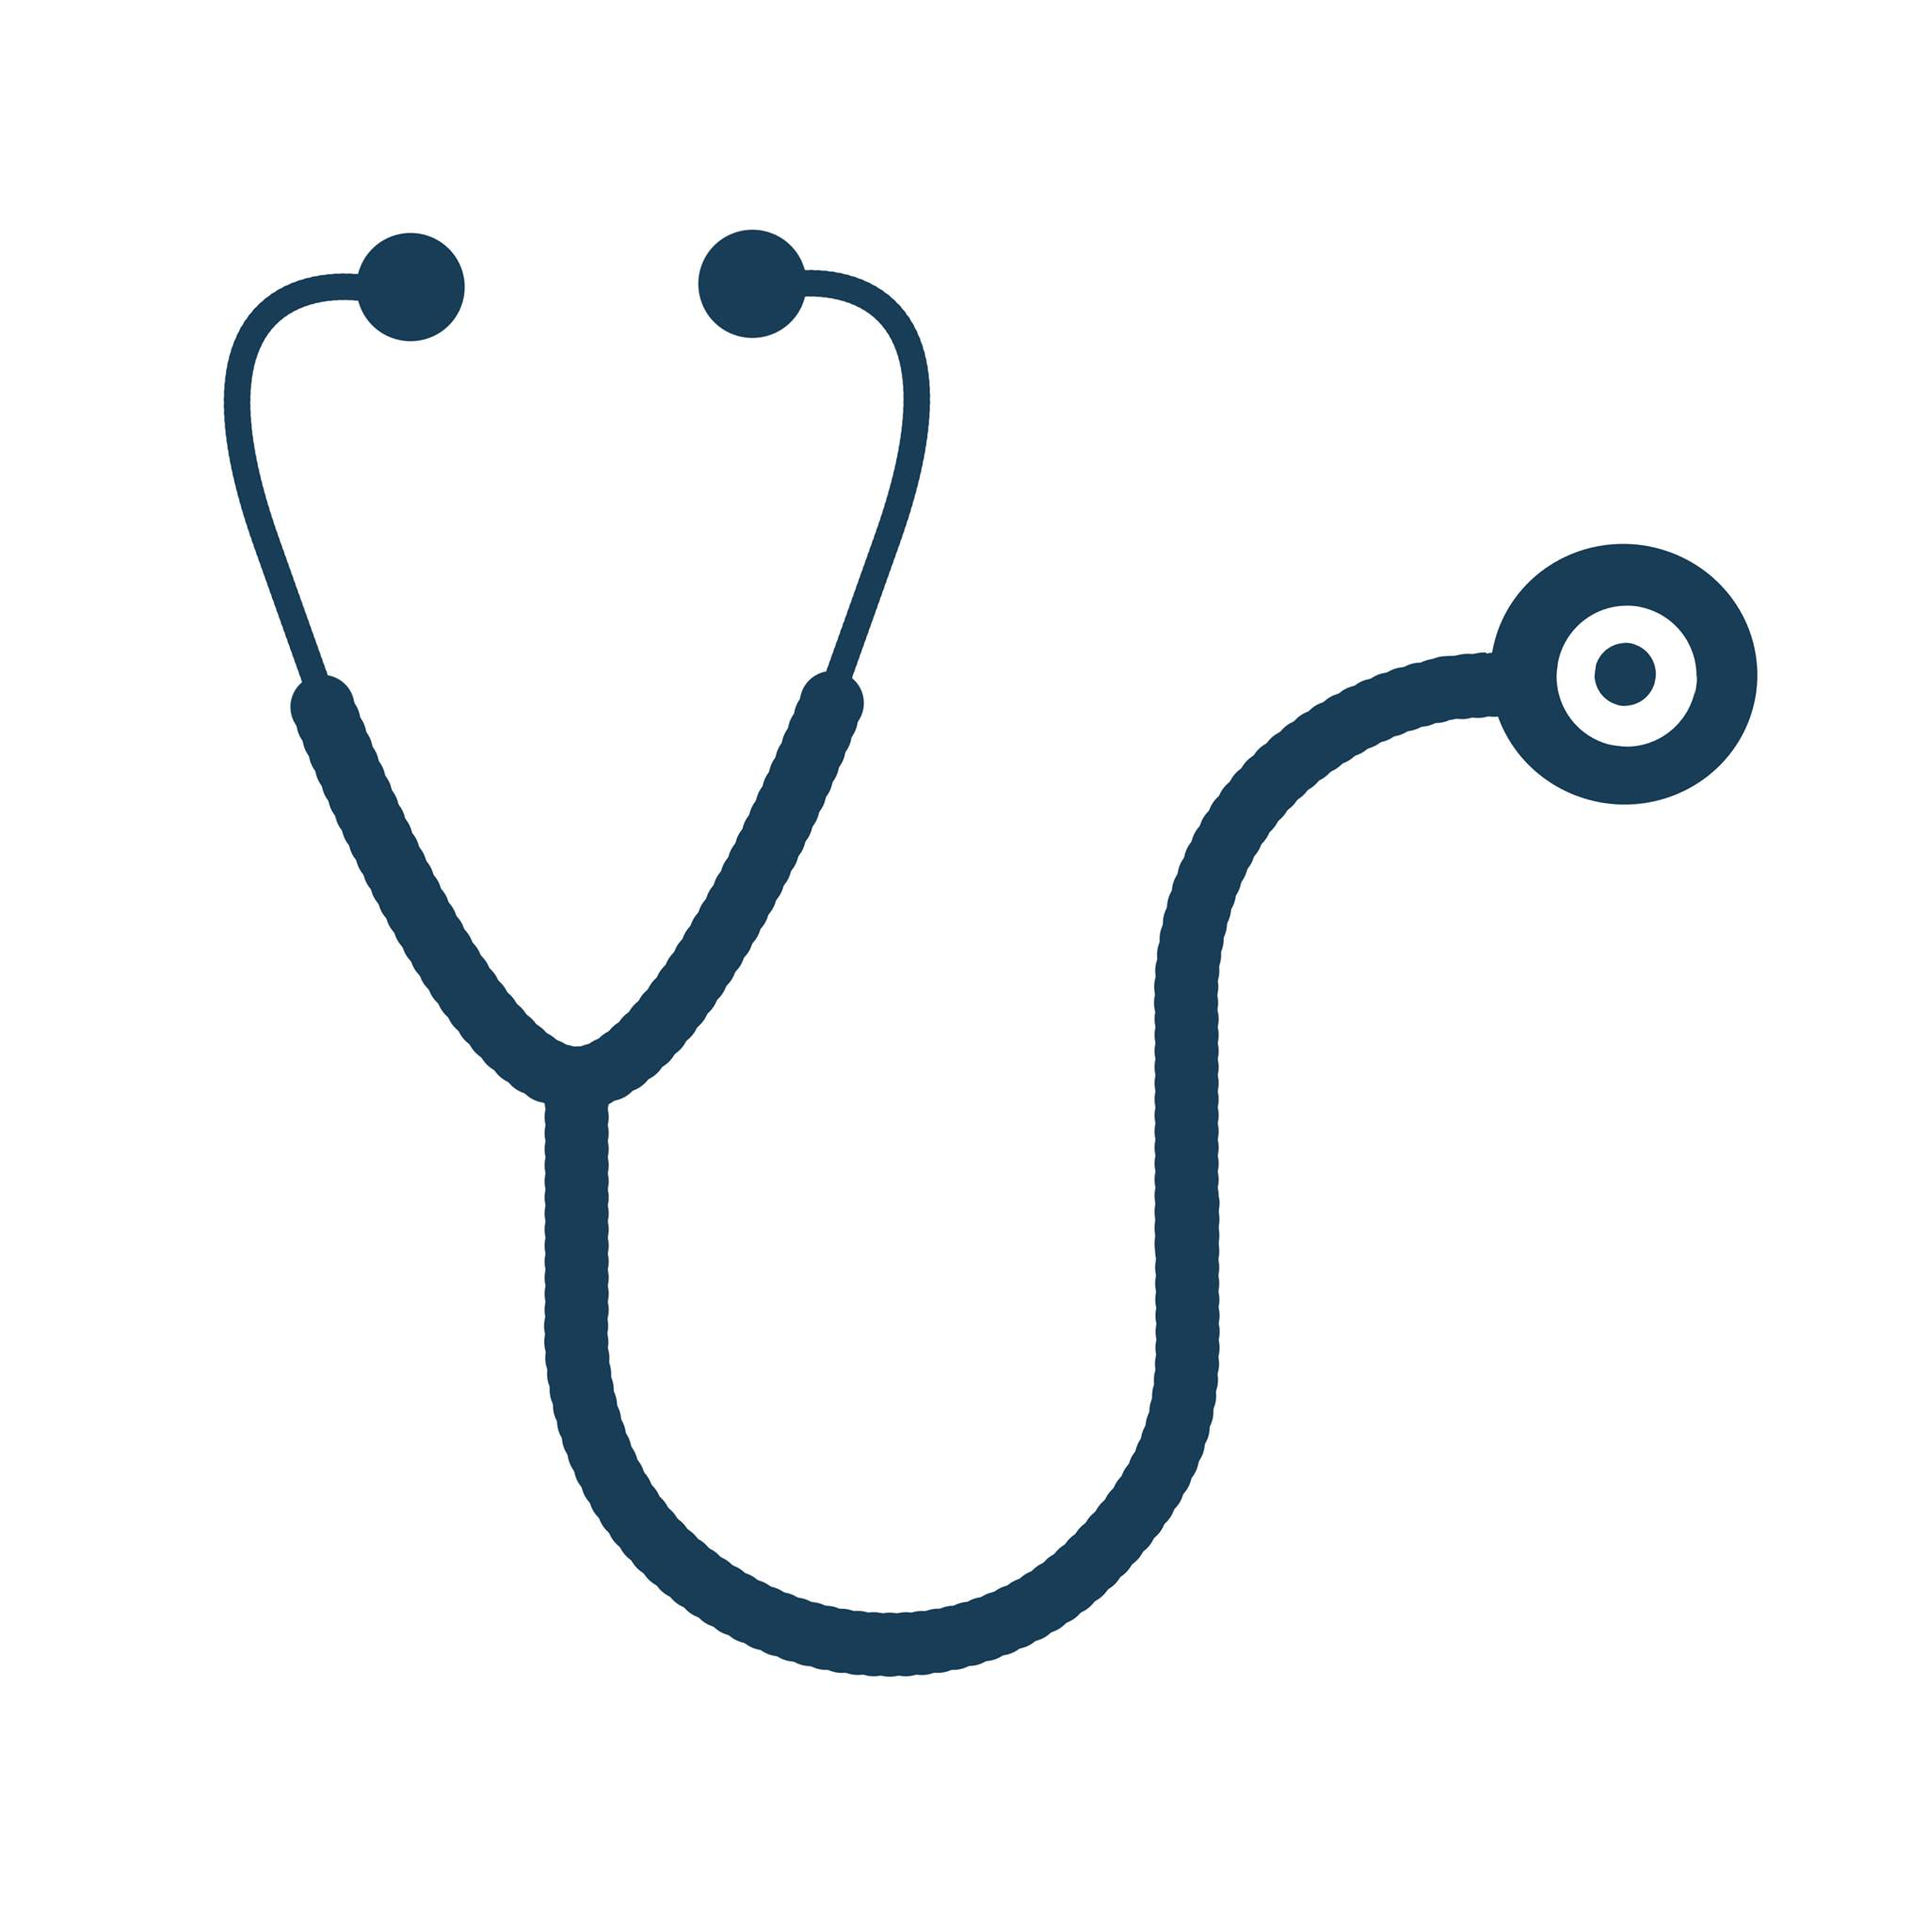
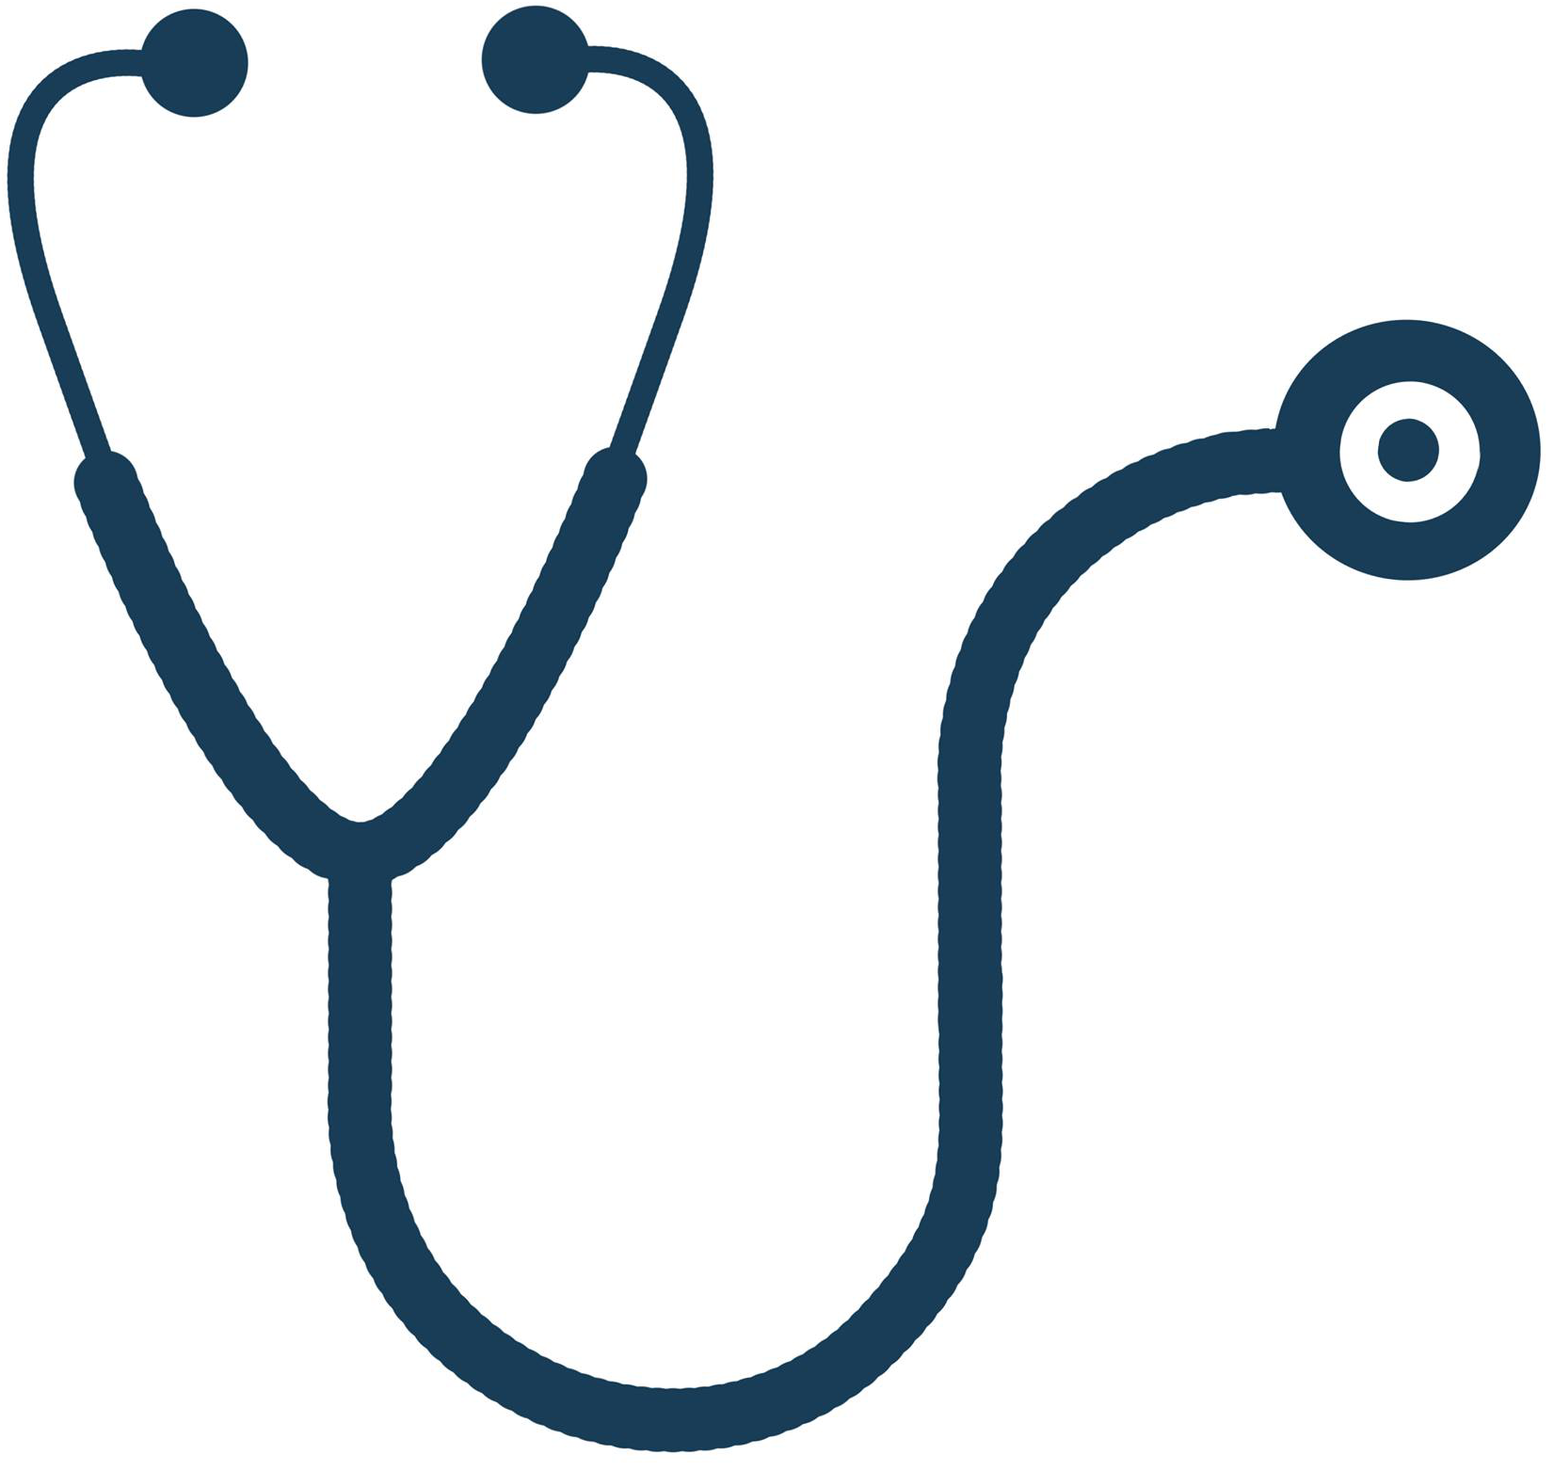
aesthetic changes
Updated Images

Added MedHacks 2017 in a more apparent place (should we merge the two pages)

Made speaker section less ugly

Changed region(s): [[0.0, 0.0, 0.6487, 1.0], [0.6487, 0.215, 1.0, 0.4607], [0.3089, 0.0, 0.4325, 0.0921]]

diff --git a/information.html b/information.html
@@ -31,7 +31,7 @@
         <div class="header-bg"></div>
         <div class="header-text">
             <h2 class="header-text-headline" id="title">MedHacks 2017 <span class="beating-heart fa fa-heart"></span> </h2>
-            <h4 class="header-text-byline" id="location">September 8-10<br><br> Johns Hopkins Medical Campus</h4><br>
+            <h4 class="header-text-byline" id="location">September 8-10, 2017<br><br> Johns Hopkins Medical Campus</h4><br>
             <!--<h4 class="header-text-byline" id="location">If you have any questions or concerns, we are more than happy to address   them. Email us at <a href="mailto:info@medhacks.org">info@medhacks.org </a> and a team member will get back to you shortly</h4> -->
             <div class="header-text-actions" id="submit">
                 <!--<a href="https://www.youtube.com/watch?v=9UIHzDDzLJA" id="youtuberon" onclick="_gaq.push(['_trackEvent', 'link', 'outbound’, 'Apply - Home']);" class="header-text-action">Still not convinced...</a> -->
@@ -118,12 +118,15 @@
         <h2>Featured Speakers</h2>
         <div class="container" style='max-width: 900px'>
             <div class="about-col">
-                <img class='about-icon' src="assets/img/benjamin_jealous.jpg" style="margin-top: 39px; margin-bottom: 39px; margin-left: 50px;">
-                <p>Benjamin Todd Jealous is a community organizer, a graduate of Columbia University and a Rhodes Scholar. Ben served as the youngest President and CEO of the NAACP. Ben is currently a partner at Kapor Capital, an investment firm that invests in progressive social change. He is a Visiting Professor at Princeton's Woodrow Wilson School of International, and a candidate for Governor of Maryland.</p>
+                <a href="https://en.wikipedia.org/wiki/Benjamin_Jealous"><img class='about-icon' src="assets/img/Keynote_Ben.png" style="margin-top: 20px; margin-bottom: 20px; margin-left: 50px;"></a>
+                <p>
+                    Benjamin Todd Jealous is a community organizer, a graduate of Columbia University and a Rhodes Scholar. Ben served as the youngest President and CEO of the NAACP. Ben is currently a partner at Kapor Capital, an investment firm that invests in progressive social change. He is a Visiting Professor at Princeton's Woodrow Wilson School of International, and a candidate for Governor of Maryland.
+                </p>
             </div>
             <div class="about-col">
-                <img class='about-icon' src="assets/img/peter_pronovost.png" style="margin-top: 20px; margin-bottom: 20px; margin-left: 50px;">
-                <p>Dr. Peter Pronovost is a patient safety champion, a practicing critical care physician, a member of the National Academy of Medicine, a prolific researcher, publishing over 800 peer review publications, and a global thought leader, informing US and global health policy.   His scientific work leveraging checklists to reduce catheter-related bloodstream infections has saved thousands of lives and earned him high-profile accolades, including being named one of the 100 most influential people in the world by Time Magazine, receiving a coveted MacArthur Foundation “genius grant” in 2008.</p> <p>The life-saving intervention has been implemented state by state across the U.S.Today, these catheter infections that used to kill as many people as breast or prostate cancer, have been reduced by 80%. After demonstrating the ability to eliminate one harm in most health systems, Dr. Pronovost sought to eliminate all harms. Toward that goal, Dr. Pronovost is the Johns Hopkins Medicine Senior Vice President for Patient Safety and Quality and the founder and director of the Johns Hopkins Medicine Armstrong Institute for Patient Safety and Quality.
+                <a href="https://en.wikipedia.org/wiki/Peter_Pronovost"><img class='about-icon' src="assets/img/Keynote_Peter.png" style="margin-top: 20px; margin-bottom: 20px; margin-left: 50px;"></a>
+                <p>
+                    Dr. Peter Pronovost is the founder and director of the Johns Hopkins Armstrong Institute for Patient Safety and Quality. He is a world leader in the field of medicine, as a practicing critical care physician and a prolific researcher, with over 800 publications and numerous scientific accolades. His work in leveraging checklists to reduce catheter-related bloodstream infections has improved patient safety throughout the world, saving thousands of lives and earning him a spot in TIME's 100 most influential people in the world and a coveted MacArthur Foundation “genius grant” in 2008.
                 </p>
             </div>
         </div>

diff --git a/index.html b/index.html
@@ -24,7 +24,7 @@
             <!-- <li class="header-navbar-item"><a href="#schedule" class="header-navbar-link">Schedule</a></li> -->
             <li class="header-navbar-item"><a href="#sponsor-section" class="header-navbar-link">Sponsors</a></li>
             <li class="header-navbar-item"><a href="./information.html" class="header-navbar-link">MedHacks 2017</a></li>
-            <li class="header-navbar-item"><a href="information.html" class="header-navbar-link">Contact</a></li>
+            <li class="header-navbar-item"><a href="mailto:info@medhacks.org" class="header-navbar-link">Contact</a></li>
 
         </ul>
     </div>
@@ -42,8 +42,11 @@
             <div class="header-text-actions" id="submit">
               <h4 class="header-text-byline" id="location">The deadline for applying for a travel reimbursement is August 13th.<br>Our general application closes August 25th.</h4><br>
                 <a href="https://medhacks.typeform.com/to/a2Gmj0" onclick="_gaq.push(['_trackEvent', 'link', 'outbound’, 'Join - Home']);" class="header-text-action">Apply</a>
-              <!--  <a href="https://www.youtube.com/watch?v=9UIHzDDzLJA" id="youtuberon" onclick="_gaq.push(['_trackEvent', 'link', 'outbound’, 'Apply - Home']);" class="header-text-action">Still not convinced...</a> -->
                 <a id="sponsors" href="#sponsor-section"  class="header-text-action">Sponsors</a>
+                <a href ="information.html" onclick="_gaq.push(['_trackEvent', 'link', 'outbound’, 'Join - Home']);" class="header-text-action">MedHacks 2017</a>
+                
+                <!--  <a href="https://www.youtube.com/watch?v=9UIHzDDzLJA" id="youtuberon" onclick="_gaq.push(['_trackEvent', 'link', 'outbound’, 'Apply - Home']);" class="header-text-action">Still not convinced...</a> -->
+                
             </div>
         </div>
         <div style="position: absolute; bottom: 5px; left: 20px;">
@@ -70,14 +73,16 @@
                 <div class="col-lg-12 text-center">
                     <p class="lead info-para">What if the most creative minds channeled their focus into solving the most impactful problems of today? Imagine if we could apply the ingenuity that powers the most profound technology into the most fundamental of all human concerns: <strong>health</strong>. MedHacks is the start. Join us for our <strong>medical hackathon</strong> and <strong> design competition </strong> at the world’s pinnacle of medical care - Johns Hopkins University. </p>
                     <div class='about-col'>
-                        <img src="assets/img/steth.png" class='about-icon'style="width: 75%; margin: -12.5% 12.5%;"/>
+                        <img src="assets/img/steth1.png" class='about-icon'style="width: 75%; margin: -15% 15%;"/>
+                        <br>
+                        <br>
                         <!-- Please fix this source image its ugly af -->
                         <p class="lead info-para about-col-para">
                             Experts and students in the field of medicine will meet to identify healthcare problems across the globe.
                         </p>
                     </div>
                     <div class='about-col'>
-                        <img src="assets/img/comp.png" class='about-icon' style="width: 75%; margin: -12.5% 12.5%;"/>
+                        <img src="assets/img/comp1.png" class='about-icon' style="width: 75%; margin: -12.5% 12.5%;"/>
                         <p class="lead info-para about-col-para">
                             Hackers from all disciplines, skill levels, and locations will unite to develop solutions to these problems.
                         </p>
